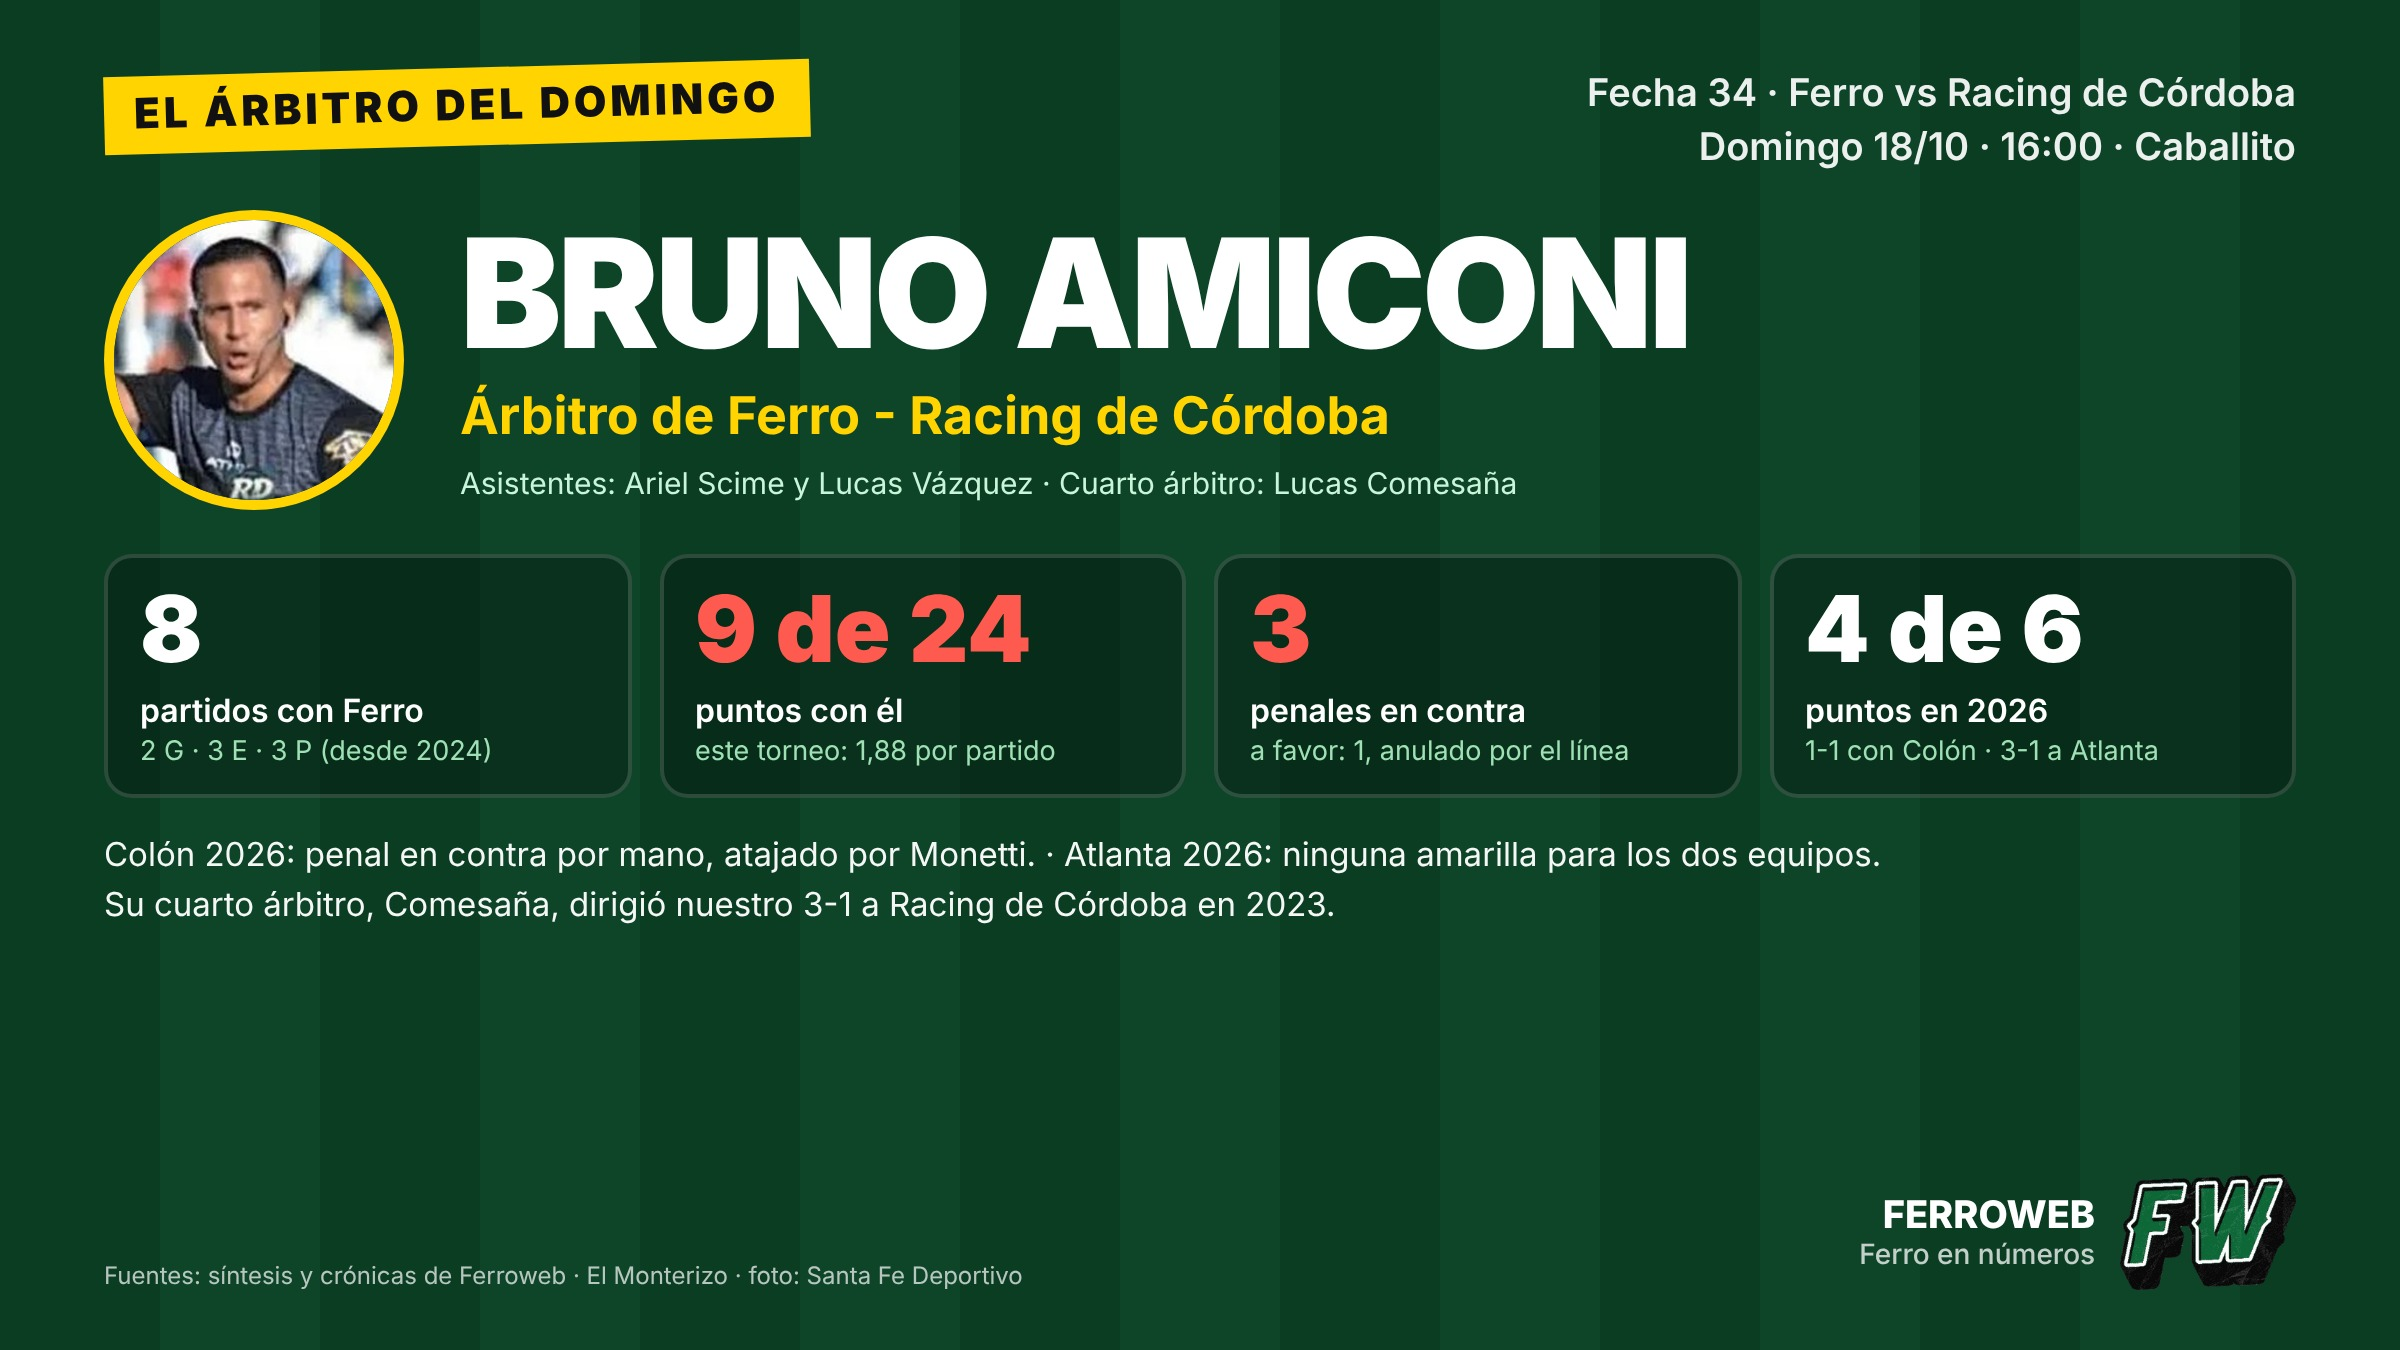
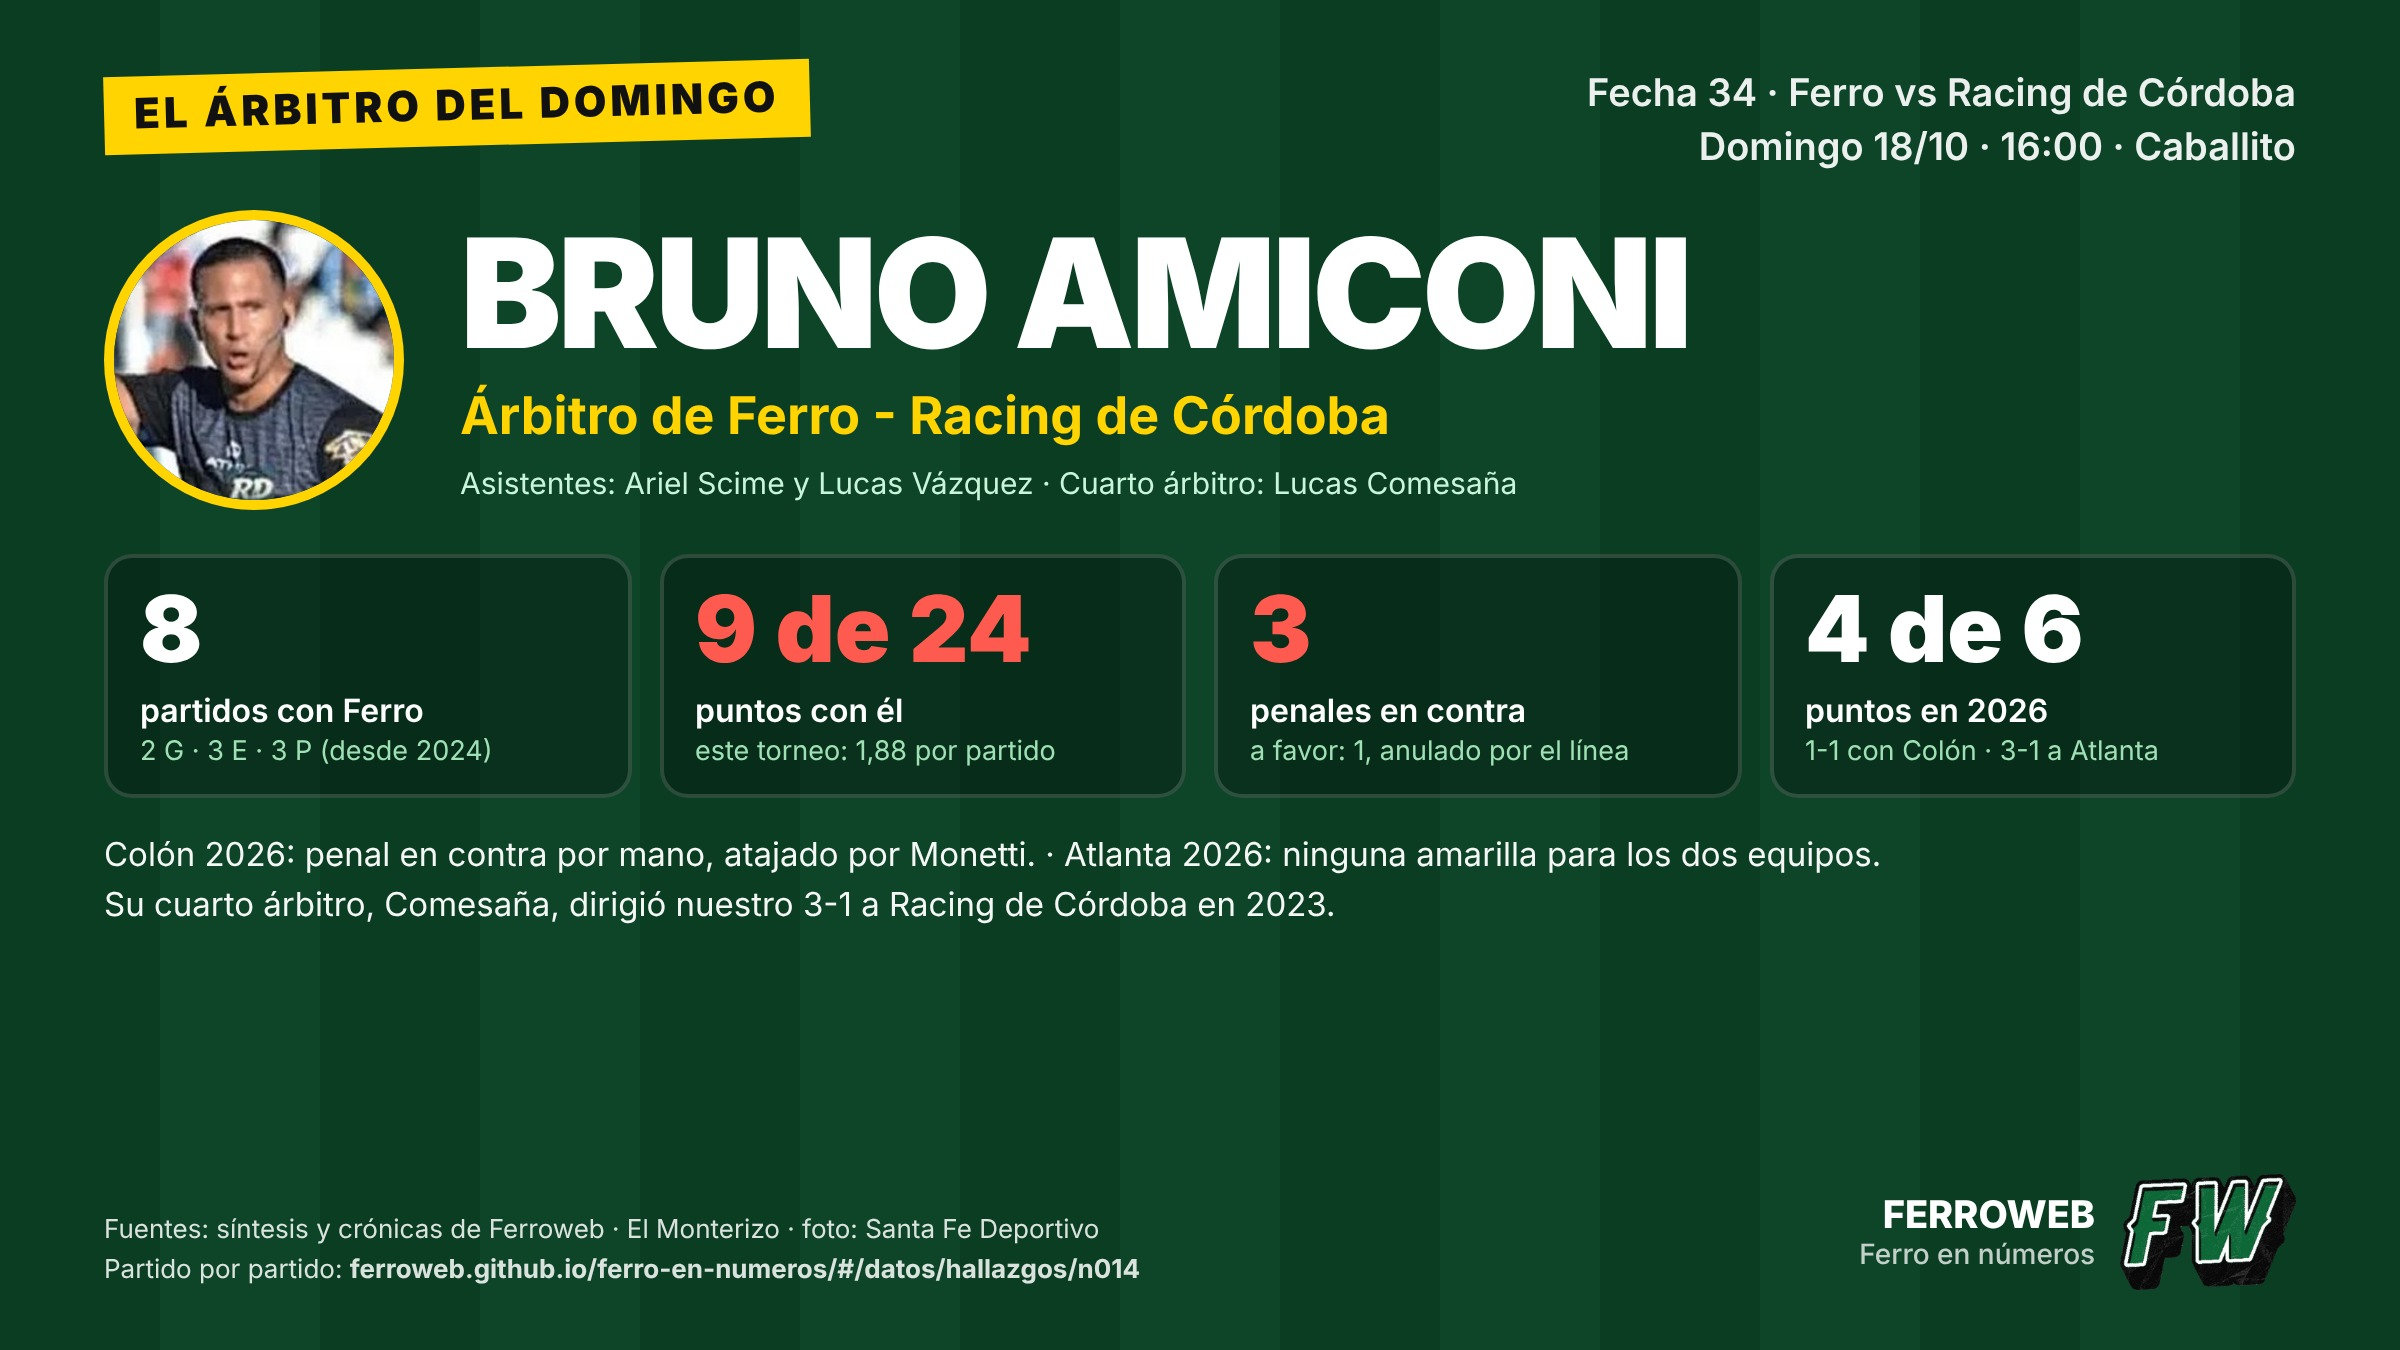
«Los que están al límite» (amarillas) y «Partido por partido» con link directo a cada dato
- Nueva página Próximo partido → Los que están al límite: cálculo limiteAmarillas en calculos.mjs (con prueba), desde las tarjetas de cada síntesis (incluye banco), en orden de juego, ciclo de 5, la doble amarilla no suma, excluye bajas (datos-fuente/bajas.json). Marca «a confirmar» a quien llegó a 5 y jugó el partido siguiente. El bot lo recalcula en cada actualización.
- Hallazgos y novedades aceptan «partidos» (lista que respalda el G-E-P) y se abren con #/datos/hallazgos/<id>; cargadas las listas de duplas centrales y Amiconi; placas con el link.
- Revisado por segunda revisión independiente.

Claude-Session: https://claude.ai/code/session_01C6MxtKRP2rvYESwYSYT4D4

Changed region(s): [[0.0312, 0.9022, 0.4688, 0.9644]]

diff --git a/src/features/partido/limite.js b/src/features/partido/limite.js
@@ -1,0 +1,34 @@
+// «Los que están al límite»: jugadores cerca de la quinta amarilla (una fecha de suspensión).
+// Los datos los calcula scripts/lib/calculos.mjs (limiteAmarillas) y vienen en DATA.limite_amarillas.
+import { DATA, prox } from "../../ctx.js";
+import { caraJug } from "../../components/caras.js";
+import { $, el } from "../../lib/dom.js";
+
+function fila(x, extra, cuenta) {
+  const f = el("div", "lim-j");
+  f.append(caraJug(x.jugador), el("b", null, x.jugador));
+  f.append(el("span", "lim-c", cuenta || `${x.ciclo} de 5`));
+  const cumplio = x.suspensiones.filter(y => !y.jugo_siguiente).map(y => `llegó a ${x.fechas.indexOf(y.fecha) + 1} en la F${y.fecha} y cumplió la fecha en la F${y.siguiente}`);
+  f.append(el("span", "nota", extra || `Amarillas en las fechas ${x.fechas.join(", ")}${cumplio.length ? ". " + cumplio.join("; ").replace(/^./, c => c.toUpperCase()) + "." : ""}`));
+  return f;
+}
+
+export function initLimite() {
+  const L = DATA.limite_amarillas;
+  const caja = $("#lim-caja"), c2 = $("#lim-caja2"), c3 = $("#lim-caja3");
+  if (!Array.isArray(L) || !L.length) { [caja, c2, c3, $("#lim-regla")].forEach(e => { e.hidden = true; }); return; }
+  const dudosos = L.filter(x => x.suspensiones.some(s => s.jugo_siguiente));
+  const ok = L.filter(x => !dudosos.includes(x));
+  const sig = prox && (DATA.calendario.proximos || []).find(p => p.fecha === prox.fecha + 1);
+  const a1 = ok.filter(x => x.faltan === 1), a2 = ok.filter(x => x.faltan === 2);
+  $("#lim-n1").textContent = prox ? `Si ven una amarilla ante ${prox.rival} (fecha ${prox.fecha}), se pierden ${sig ? `la fecha ${sig.fecha} contra ${sig.rival}` : "la fecha siguiente"}.` : "";
+  a1.forEach(x => $("#lim-1").append(fila(x)));
+  if (!a1.length) $("#lim-1").append(el("p", "nota", "Nadie está a una amarilla."));
+  a2.forEach(x => $("#lim-2").append(fila(x)));
+  if (!a2.length) c2.hidden = true;
+  if (dudosos.length) {
+    $("#lim-n3").textContent = "Según las síntesis llegaron a 5 amarillas, pero jugaron el partido siguiente: puede haber una amarilla mal cargada, así que su conteo podría estar corrido en una.";
+    dudosos.forEach(x => { const s = x.suspensiones.find(y => y.jugo_siguiente); $("#lim-3").append(fila(x, `Amarillas en las fechas ${x.fechas.join(", ")}. Llegó a 5 en la F${s.fecha} y jugó la F${s.siguiente}: si sobra una amarilla, hoy estaría en ${(x.amarillas - 1) % 5} de 5.`, `¿${(x.amarillas - 1) % 5} de 5?`)); });
+  } else c3.hidden = true;
+  $("#lim-regla").textContent = "Cómo se cuenta: cada 5 amarillas se cumple una fecha de suspensión y el conteo vuelve a cero. La amarilla de una doble amonestación (que termina en roja) no suma. Las rojas tienen su propia sanción y no entran acá. No figuran los jugadores que ya no están en el plantel. Fuente: síntesis de Ferroweb.";
+}

diff --git a/src/components/desarrollo.js b/src/components/desarrollo.js
@@ -19,6 +19,19 @@ export function abrirDesarrollo(x) {
   if (x.datos && x.datos.length) { const g = el("div", "dd"); x.datos.forEach(([l, v]) => { const d = el("div"); d.append(el("div", "l", l), el("div", "v", v)); g.append(d); }); c.append(g); }
   const pars = x.desarrollo && x.desarrollo.length ? x.desarrollo : (x.detalle ? [x.detalle] : []);
   pars.forEach(t => c.append(el("p", null, t)));
+  // Partido por partido: cuando el dato resume «X ganados, X empatados, X perdidos», la lista que lo respalda.
+  if (Array.isArray(x.partidos) && x.partidos.length) {
+    c.append(el("h4", null, "Partido por partido"));
+    const lp = el("div", "des-ps");
+    x.partidos.forEach(p => {
+      const r = p.gf > p.gc ? "G" : p.gf === p.gc ? "E" : "P";
+      const fila = el("div", "des-p"), txt = el("div", "des-pt", `${p.t} · ${p.rival}${p.c ? ` (${p.c === "L" ? "local" : "visitante"})` : ""}`);
+      if (p.nota) txt.append(el("div", "des-pn", p.nota));
+      fila.append(el("span", "pill " + r, `${p.gf}-${p.gc}`), txt);
+      lp.append(fila);
+    });
+    c.append(lp);
+  }
   // hallazgos relacionados: mismo jugador o mismo rival mencionado
   const claves = [];
   if (x.jugador) claves.push(x.jugador);
@@ -28,7 +41,7 @@ export function abrirDesarrollo(x) {
   if (rel.length) { c.append(el("h4", null, "Hallazgos relacionados")); const r = el("div", "rel"); rel.forEach(h => { const d = el("div"); d.append(el("b", null, h.titulo)); if (h.detalle) d.append(document.createTextNode(h.detalle)); r.append(d); }); c.append(r); }
   if (jug) { const b = el("button", "pv-cerrar", `Ver la ficha completa de ${x.jugador} →`); b.type = "button"; b.addEventListener("click", () => { $("#des").close(); irAFicha(x.jugador); }); c.append(b); }
   if (x.url) { const a = el("a", null, "Ver la fuente →"); a.href = x.url; a.target = "_blank"; a.rel = "noopener"; c.append(a); }
-  c.append(accionesDelDetalle(x, c, x.titulo, location.origin + location.pathname + "#/datos/hallazgos"));
+  c.append(accionesDelDetalle(x, c, x.titulo, location.origin + location.pathname + "#/datos/hallazgos" + (x.id ? "/" + x.id : "")));
   if (typeof dlg.showModal === "function") dlg.showModal(); else dlg.setAttribute("open", "");
   c.scrollTop = 0; dlg.scrollTop = 0;
 }

diff --git a/src/pages/partido.html b/src/pages/partido.html
@@ -64,6 +64,12 @@
 <div class="tab" data-tab="chicanas" data-label="Chicanas" data-desc="El manual para cargar al rival, con números reales.">
     <div class="caja humor" id="humor-caja"><h3 id="humor-t"></h3><p class="nota" id="humor-i"></p><div class="hgraf" id="humor-g"></div><ol class="hum" id="humor-l"></ol><p class="cierre" id="humor-c"></p></div>
 </div>
+<div class="tab" data-tab="al-limite" data-label="Los que están al límite" data-desc="Quiénes están cerca de la quinta amarilla, que cuesta una fecha de suspensión.">
+  <div class="caja" id="lim-caja"><h3>A una amarilla de la suspensión</h3><div class="nota" id="lim-n1"></div><div class="lim-l" id="lim-1"></div></div>
+  <div class="caja" id="lim-caja2"><h3>A dos amarillas</h3><div class="lim-l" id="lim-2"></div></div>
+  <div class="caja" id="lim-caja3"><h3>A confirmar</h3><div class="nota" id="lim-n3"></div><div class="lim-l" id="lim-3"></div></div>
+  <p class="nota" id="lim-regla"></p>
+</div>
 <div class="tab" data-tab="arbitro" data-label="Árbitro" data-desc="Quién nos dirige, cómo nos fue con él y qué esperar.">
   <div class="caja arb-caja" id="arb-caja">
     <div class="arb-cab"><div class="arb-ico" aria-hidden="true">🟨</div><div><div class="pz-eti" id="arb-eti"></div><h3 id="arb-t"></h3></div></div>

diff --git a/src/ctx.js b/src/ctx.js
@@ -28,7 +28,7 @@ export function initCtx({ data, fotosJug, fotosFw, prodeCfg, prodeHash }) {
   // Los escenarios del primer puesto se calculan solos y traen la fecha a la que corresponden.
   escenariosAlDia = !!(DATA.escenarios && DATA.escenarios.tras_fecha === DATA.ultima_fecha);
   TODOS = [
-    ...(DATA.novedades || []).map(n => ({ tipo: "novedad", titulo: n.titulo, detalle: n.detalle, extra: n.fecha, url: n.url, fuente: n.fuente, desarrollo: n.desarrollo, datos: n.datos })),
-    ...DATA.hallazgos.map(h => ({ tipo: h.tipo, titulo: h.titulo, detalle: h.detalle, jugador: h.jugador, rel: h.relevancia })),
+    ...(DATA.novedades || []).map(n => ({ id: n.id, tipo: "novedad", titulo: n.titulo, detalle: n.detalle, extra: n.fecha, url: n.url, fuente: n.fuente, desarrollo: n.desarrollo, datos: n.datos, partidos: n.partidos })),
+    ...DATA.hallazgos.map(h => ({ id: h.id, tipo: h.tipo, titulo: h.titulo, detalle: h.detalle, jugador: h.jugador, rel: h.relevancia, partidos: h.partidos })),
   ];
 }

diff --git a/src/features/hallazgos.js b/src/features/hallazgos.js
@@ -3,6 +3,7 @@ import { TODOS } from "../ctx.js";
 import { tabla } from "../lib/charts.js";
 import { CAT } from "../lib/consts.js";
 import { $, el } from "../lib/dom.js";
+import { abrirDesarrollo } from "../components/desarrollo.js";
 
 let filtro = "todos", q = "", todos = false;
 function hallazgos() {
@@ -30,4 +31,12 @@ function init() {
   $("#q").addEventListener("input", e => { q = e.target.value.trim().toLowerCase(); hallazgos(); });
   hallazgos();
 }
-export default { init };
+// Link directo a un dato: #/datos/hallazgos/<id> abre su detalle (lo usan las placas y los botones de compartir).
+let abierto = "";
+function onShow(grupo, pagina, param) {
+  if (grupo !== "datos" || pagina !== "hallazgos" || !param) { abierto = ""; return; }
+  if (param === abierto) return;
+  const x = TODOS.find(h => h.id === param); if (!x) return;
+  abierto = param; abrirDesarrollo(x);
+}
+export default { init, onShow };

diff --git a/src/search.js b/src/search.js
@@ -22,6 +22,7 @@ const DESTINOS = [
   ["Chicanas", "#/partido/chicanas", "manual humor cargada", "😜"],
   ["El árbitro del próximo partido", "#/partido/arbitro", "referi designacion", "🟨"],
   ["Árbitros de la temporada", "#/partido/arbitros", "referis todos tabla", "🟨"],
+  ["Los que están al límite de amarillas", "#/partido/al-limite", "amarillas suspension suspendidos tarjetas acumuladas limite cinco", "🟨"],
   ["Plantel completo", "#/jugadores/plantel", "jugadores minutos goles tarjetas", "👟"],
   ["Comparador de jugadores", "#/jugadores/comparador", "comparar versus", "⚖"],
   ["Duplas, tridentes e impacto del banco", "#/jugadores/duplas-banco", "suplentes cambios titulares", "🤝"],

diff --git a/src/styles/dialogo.css b/src/styles/dialogo.css
@@ -19,3 +19,6 @@ section, .pv-fwcaja, .humor { scroll-margin-top: 76px; }
 .hallazgo-img { display: flex; flex-direction: column; gap: 12px; }
 .hallazgo-img h3 { font-family: var(--display); font-weight: 800; font-size: 28px; line-height: 1.05; text-transform: uppercase; color: var(--verde-txt); margin: 0; }
 .hallazgo-img p { margin: 0; line-height: 1.55; }
+.des .des-ps { display: flex; flex-direction: column; gap: 6px; }
+.des .des-p { display: grid; grid-template-columns: auto 1fr; align-items: center; gap: 10px; font-size: 14px; }
+.des .des-pn { color: var(--muted); font-size: 13px; }

diff --git a/src/styles/partido.css b/src/styles/partido.css
@@ -162,3 +162,9 @@
 .hum b { display: block; }
 .hum span { color: var(--muted); font-size: 14px; }
 .humor .cierre { font-weight: 700; margin: 12px 0 0; }
+.lim-l { display: flex; flex-direction: column; gap: 10px; margin-top: 10px; }
+.lim-j { display: grid; grid-template-columns: auto 1fr auto; align-items: center; gap: 4px 12px; }
+.lim-j .cara-j { grid-row: span 2; width: 48px; height: 48px; }
+.lim-j b { font-size: 16px; }
+.lim-j .lim-c { font-family: var(--display); font-weight: 800; font-size: 22px; color: var(--warn); grid-row: span 2; }
+.lim-j .nota { grid-column: 2; margin: 0; }

diff --git a/src/features/inicio.js b/src/features/inicio.js
@@ -71,7 +71,7 @@ export function initNovedadesHoy() {
       btn.disabled = false;
     });
   }
-  const box = $("#hoy-l"); hoyL.forEach(n => box.append(tarjeta({ tipo: "novedad", titulo: n.titulo, detalle: n.detalle, extra: n.fecha, url: n.url, fuente: n.fuente, desarrollo: n.desarrollo, datos: n.datos })));
+  const box = $("#hoy-l"); hoyL.forEach(n => box.append(tarjeta({ id: n.id, tipo: "novedad", titulo: n.titulo, detalle: n.detalle, extra: n.fecha, url: n.url, fuente: n.fuente, desarrollo: n.desarrollo, datos: n.datos, partidos: n.partidos })));
 }
 
 export function initPlaca() {

diff --git a/src/features/partido.js b/src/features/partido.js
@@ -3,8 +3,9 @@ import { initPizarra } from "./partido/pizarra.js";
 import { initArbitro } from "./partido/arbitro.js";
 import { initRival } from "./partido/rival.js";
 import { initResumen } from "./partido/resumen.js";
+import { initLimite } from "./partido/limite.js";
 
 export default {
-  init() { previa(); initPizarra(); initArbitro(); initRival(); initResumen(); },
+  init() { previa(); initPizarra(); initArbitro(); initRival(); initResumen(); initLimite(); },
   onShow(grupo) { if (grupo === "partido") previa(); },
 };
